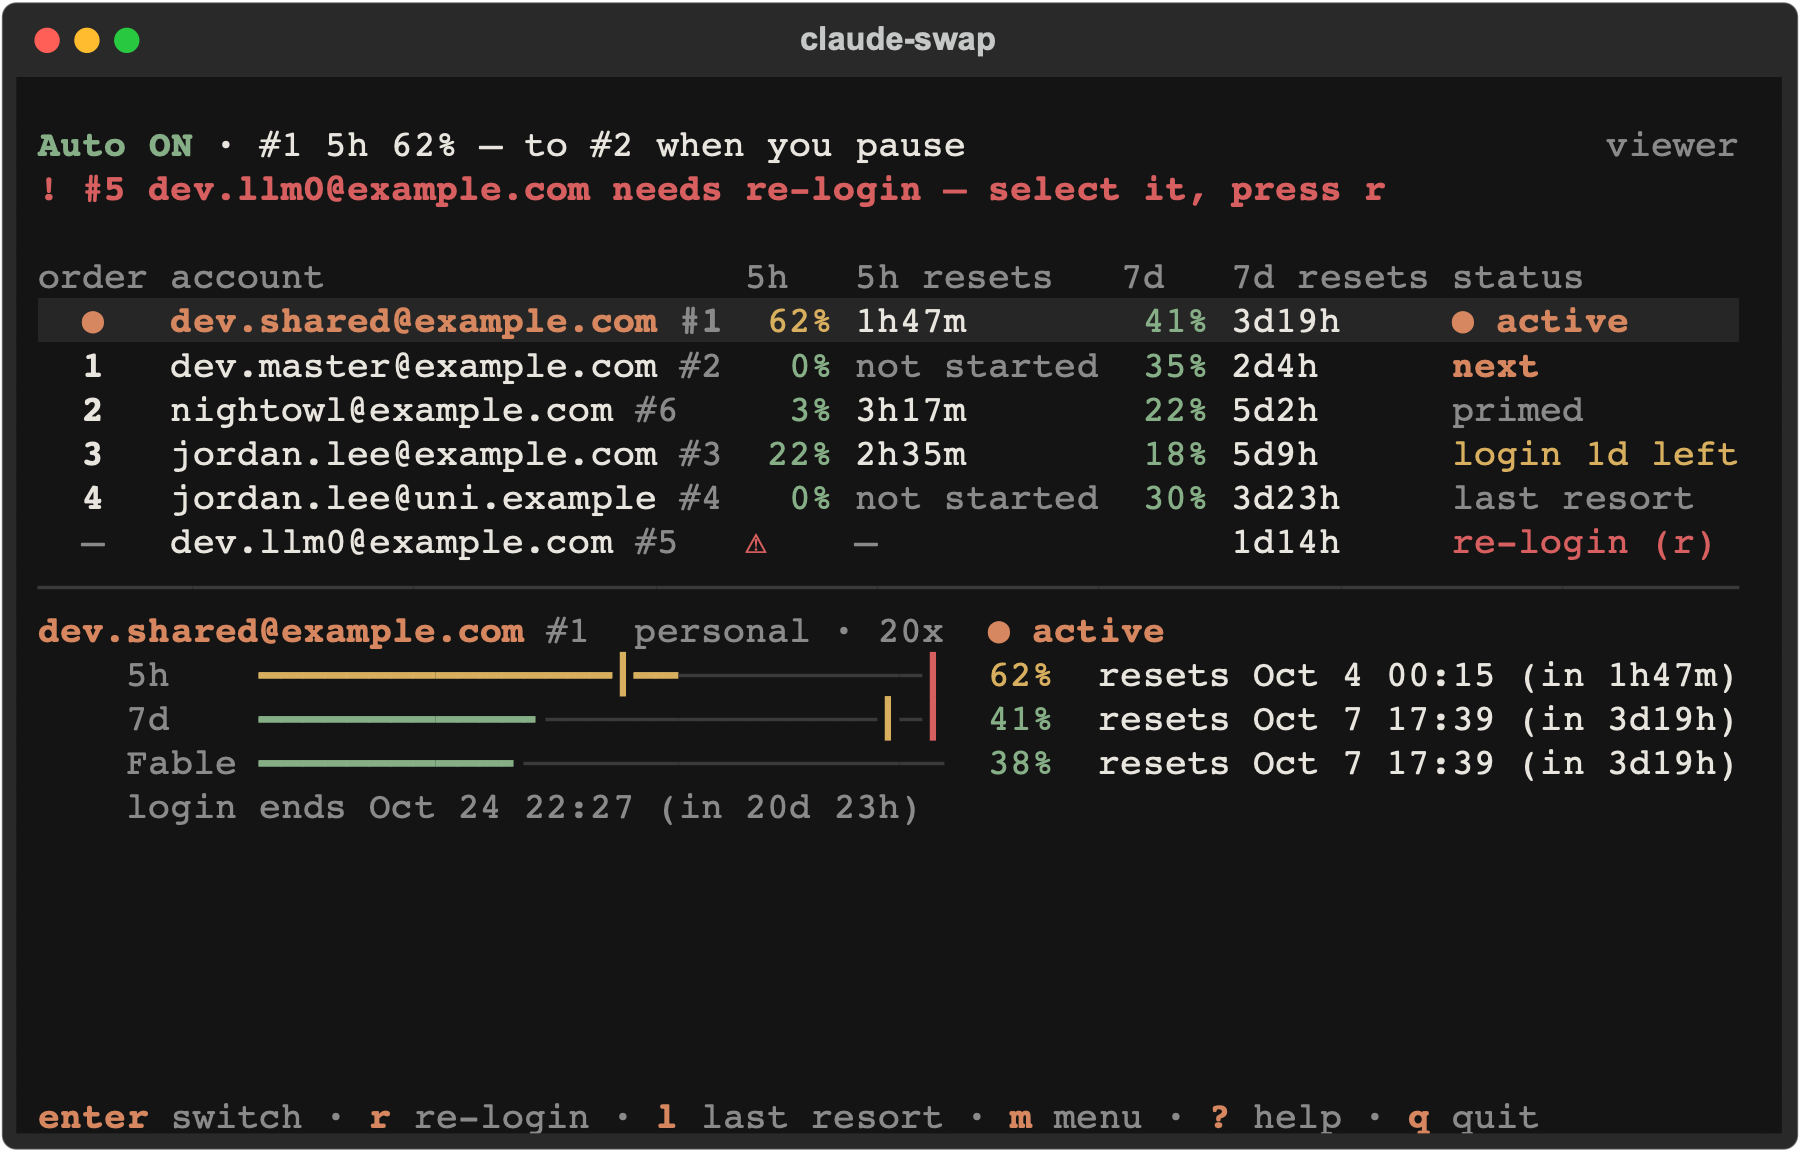
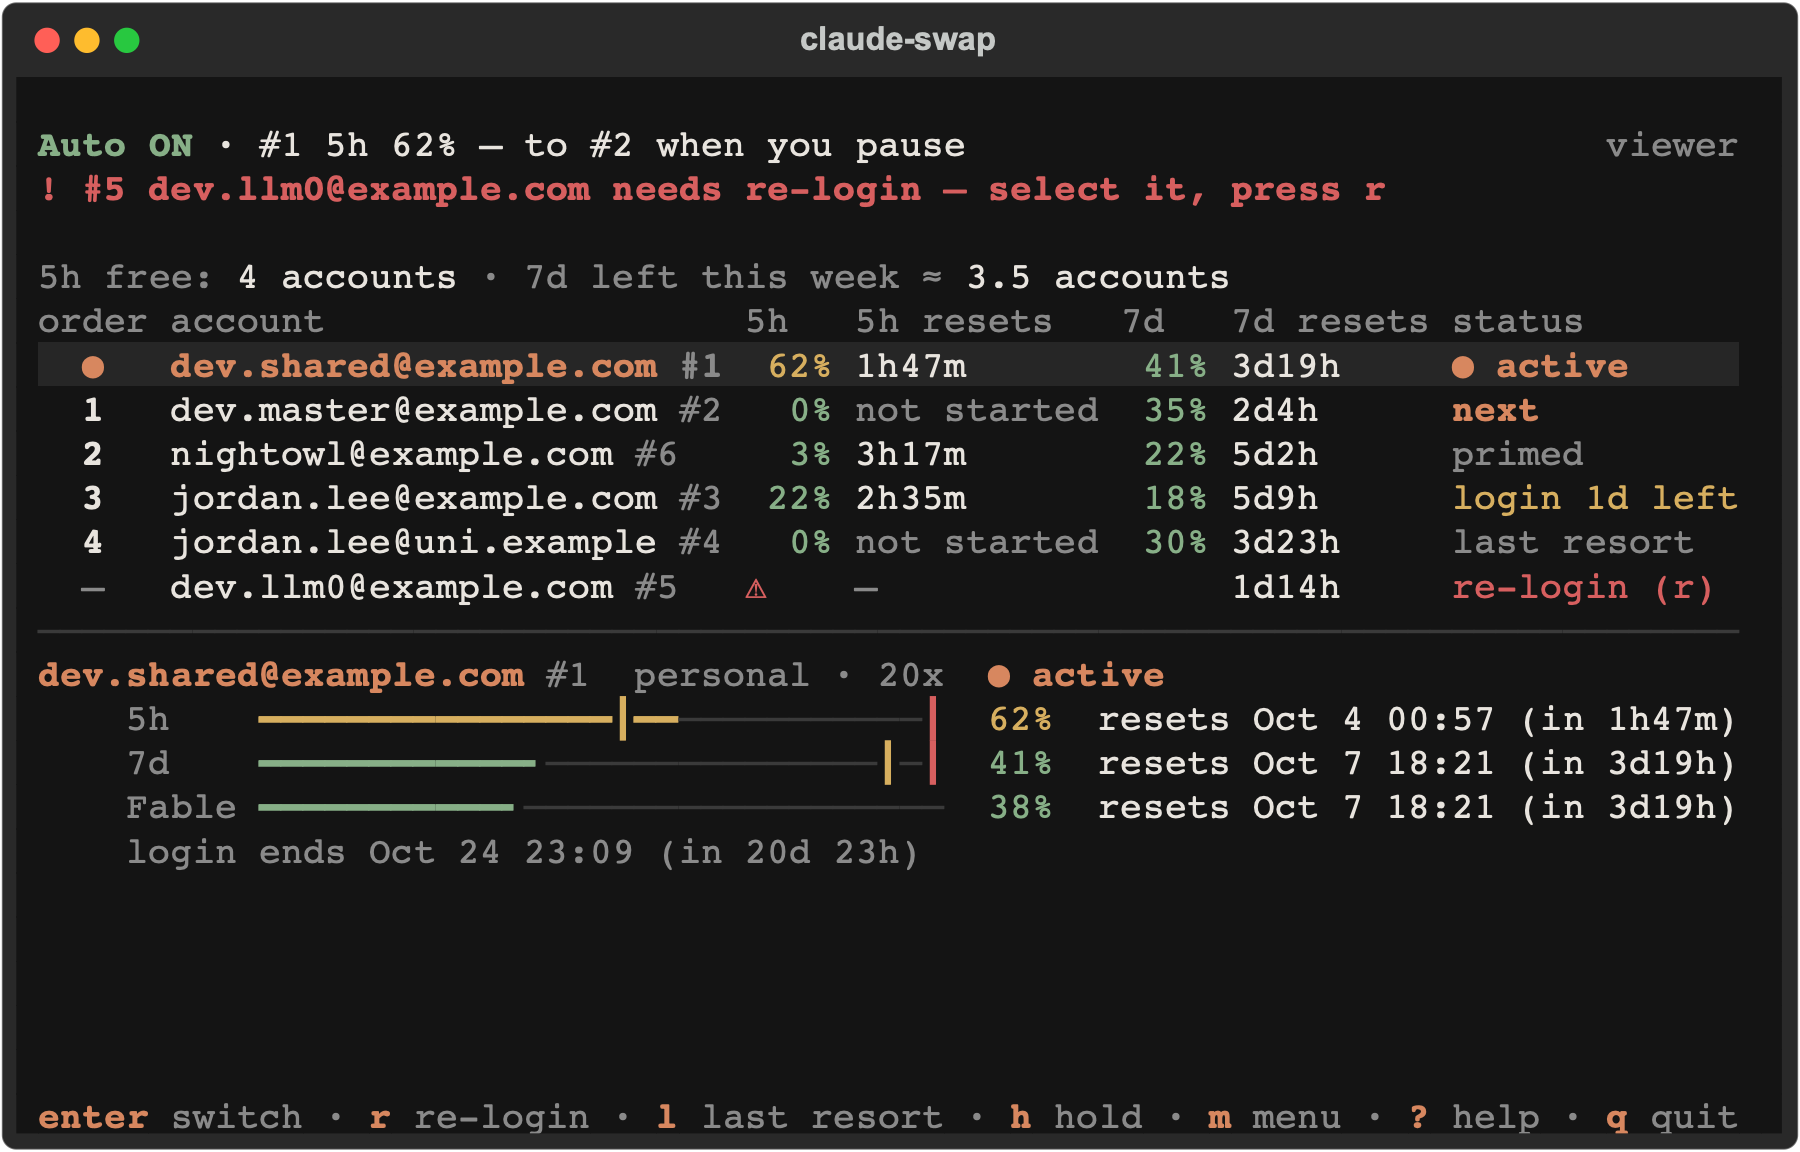
Screenshots: a hold scenario, review shots; README images regenerated
tools/fleet_screenshots.py gains a `hold` scenario: #1 held for two
hours with every login healthy (no attention line), so even 200x16 has
the rows for the capacity summary next to the selected account's panel.
Its shots are fleet-hold-200x16, fleet-hold-120x36 and the h picker
(fleet-holdpicker-120x36). The run sets CC_SWAP_NOTIFY=0, and the seed
writes or clears hold.json for each scenario.

The three README images are regenerated from the same example.com
fleet: they now show the capacity summary over the headers and the
seven-key footer (h hold).

diff --git a/tools/fleet_screenshots.py b/tools/fleet_screenshots.py
@@ -19,12 +19,19 @@ marked last resort, a dead login and a primed account. ``--emails`` swaps
 in other addresses (six, comma-separated) for a private preview; keep real
 addresses out of the README images.
 
+The ``hold`` scenario holds #1 (``cc-swap hold``, Fleet ``h``) for two hours
+with every login healthy (no attention line), so even 200x16 has the rows
+for the capacity summary next to the selected account's panel; its shots
+are ``fleet-hold-200x16``, ``fleet-hold-120x36`` and the ``h`` picker
+(``fleet-holdpicker-120x36``).
+
 Writes ``fleet-<size>.svg`` for each shot, plus a PNG (macOS Quick Look,
 cropped to the window) when ``qlmanage`` and ``sips`` exist, into the first
 ``--out`` (default ``/tmp/cc-swap-tui-poc/table``) and copies them into any
 further ``--out``. ``--assets DIR`` also copies the README's images there
 (:data:`README_ASSETS`). NAMEs pick shots (``160x45``, ``menu``,
-``autooff``, ``resetwait``, ``preempt``, ``strategy`` …); none means all.
+``autooff``, ``resetwait``, ``preempt``, ``hold``, ``strategy`` …); none
+means all. Desktop notifications are off for the run (``CC_SWAP_NOTIFY=0``).
 """
 
 from __future__ import annotations
@@ -45,6 +52,7 @@ from pathlib import Path
 HOME = Path(tempfile.mkdtemp(prefix="ccswap-shots-home-"))
 os.environ["HOME"] = str(HOME)
 os.environ["CC_SWAP_FETCH_ON_OPEN"] = "0"
+os.environ["CC_SWAP_NOTIFY"] = "0"
 ROOT = Path(__file__).resolve().parents[1]
 sys.path[:0] = [str(ROOT), str(ROOT / "src")]
 
@@ -89,20 +97,28 @@ def _account(n, email, entry, *, active=False, org="", login_days=None, disabled
     )
 
 
-def accounts_for(emails: list[str], first: UsageEntry | None = None) -> list[AccountSnapshot]:
+def accounts_for(
+    emails: list[str], first: UsageEntry | None = None, *, healthy: bool = False
+) -> list[AccountSnapshot]:
     """#1 active, past its 5h soft mark, with a Fable window (``first``
     replaces its usage); #2 next, its 5h not started; #3 login ends in
     about a day; #4 a Team account, last resort, 5h not started; #5 a dead
-    login (its last reading still says when its windows reset); #6 primed."""
+    login (its last reading still says when its windows reset); #6 primed.
+    ``healthy``: #3's login has 12 days left and #5's login works (its 7d
+    nearly spent, its 5h past soft), so nothing needs you."""
     e = emails
+    if healthy:
+        fifth = _account(5, e[4], _entry(71.0, 0.7 * H, 92.0, 1.6), login_days=17)
+    else:
+        fifth = _account(5, e[4], _entry(0.0, None, 57.0, 1.6, age=9 * H,
+                                         sentinel=USAGE_RELOGIN_REQUIRED))
     return [
         _account(1, e[0], first or _entry(62.0, 1.8 * H, 41.0, 3.8, fable=38.0),
                  active=True, login_days=21),
         _account(2, e[1], _entry(0.0, None, 35.0, 2.2), login_days=20),
-        _account(3, e[2], _entry(22.0, 2.6 * H, 18.0, 5.4), login_days=1.2),
+        _account(3, e[2], _entry(22.0, 2.6 * H, 18.0, 5.4), login_days=12 if healthy else 1.2),
         _account(4, e[3], _entry(0.0, None, 30.0, 4.0), org="Acme Team", login_days=29),
-        _account(5, e[4], _entry(0.0, None, 57.0, 1.6, age=9 * H,
-                                 sentinel=USAGE_RELOGIN_REQUIRED)),
+        fifth,
         _account(6, e[5], _entry(3.0, 3.3 * H, 22.0, 5.1), login_days=14),
     ]
 
@@ -139,9 +155,20 @@ def seed_history(root: Path) -> str:
 def _scenario(name: str, quiet: str, emails: list[str]) -> tuple[list, dict, list]:
     """``(accounts, published decision, #1's samples)`` for a scenario:
     ``pending`` (past the 5h soft mark, waiting for a pause), ``reset-wait``
-    (past it too, but the 5h window resets in 8 minutes) or ``preempt``
-    (the 7d would pass its soft mark before the quiet time)."""
+    (past it too, but the 5h window resets in 8 minutes), ``preempt`` (the
+    7d would pass its soft mark before the quiet time) or ``hold`` (past the
+    5h soft mark, but held for two hours: the engine sets the move aside)."""
     base = {"at": NOW - 50, "pid": os.getpid(), "active": "1", "plans": PLANS}
+    if name == "hold":
+        from claude_swap.maximize.hold import AccountHold, safety_text, until_text
+
+        held = until_text(AccountHold("1", NOW + 2 * H), NOW - 50)
+        return accounts_for(emails, healthy=True), {
+            **base, "decision": "hold", "trigger": None, "target": None, "pending": False,
+            "code": "hold",
+            "reason": f"#1 held {held} — {safety_text(98, 98)}; otherwise: #1 5h 62% >= soft "
+                      "50%; waiting for idle to move to #2 (5h +3 / 7d +0.2 pts over 10 min)",
+        }, [[NOW - 660, 59.0, 40.8], [NOW - 60, 62.0, 41.0]]
     if name == "reset-wait":
         accounts = accounts_for(emails, _entry(96.0, 8 * 60 + 20, 41.0, 3.8, fable=38.0))
         return accounts, {
@@ -182,9 +209,10 @@ def seed(
     quiet = seed_history(root)
     accounts, decision, samples = _scenario(scenario, quiet, emails)
     reset6 = NOW + 3.3 * H
+    dead = scenario != "hold"  # the hold shots have every login healthy
     state = {
         "schemaVersion": 1,
-        "quarantine": {"5": {"email": emails[4], "reason": "invalid_grant"}},
+        "quarantine": {"5": {"email": emails[4], "reason": "invalid_grant"}} if dead else {},
         "maximizeSamples": {"account": "1", "samples": samples},
         "primes": {emails[5]: {
             "windowKey": "w", "attempts": 1,
@@ -200,6 +228,11 @@ def seed(
     elif flag.exists():
         flag.unlink()
     (root / "autoswitch_state.json").write_text(json.dumps(state))
+    from claude_swap.maximize import hold
+
+    hold.clear_hold(root)
+    if scenario == "hold":
+        hold.set_hold(root, "1", NOW + 2 * H, by="fleet", now=NOW - 50, host="mbp")
     return accounts
 
 
@@ -302,12 +335,16 @@ async def main() -> None:
         for scenario, shots in (
             ("reset-wait", ((160, 45), (80, 24))),
             ("preempt", ((120, 36),)),
+            ("hold", ((200, 16), (120, 36))),
         ):
             names = [f"fleet-{scenario.replace('-', '')}-{w}x{h}" for w, h in shots]
             if any(wanted(n) for n in names):
                 scenario_accounts = seed(root, emails=emails, scenario=scenario)
                 for (w, h), name in zip(shots, names):
                     await take(w, h, name, accounts=scenario_accounts)
+        if wanted("fleet-holdpicker-120x36"):
+            hold_accounts = seed(root, emails=emails, scenario="hold")
+            await take(120, 36, "fleet-holdpicker-120x36", keys=("h",), accounts=hold_accounts)
         seed(root, emails=emails)
     finally:
         lease.release()
